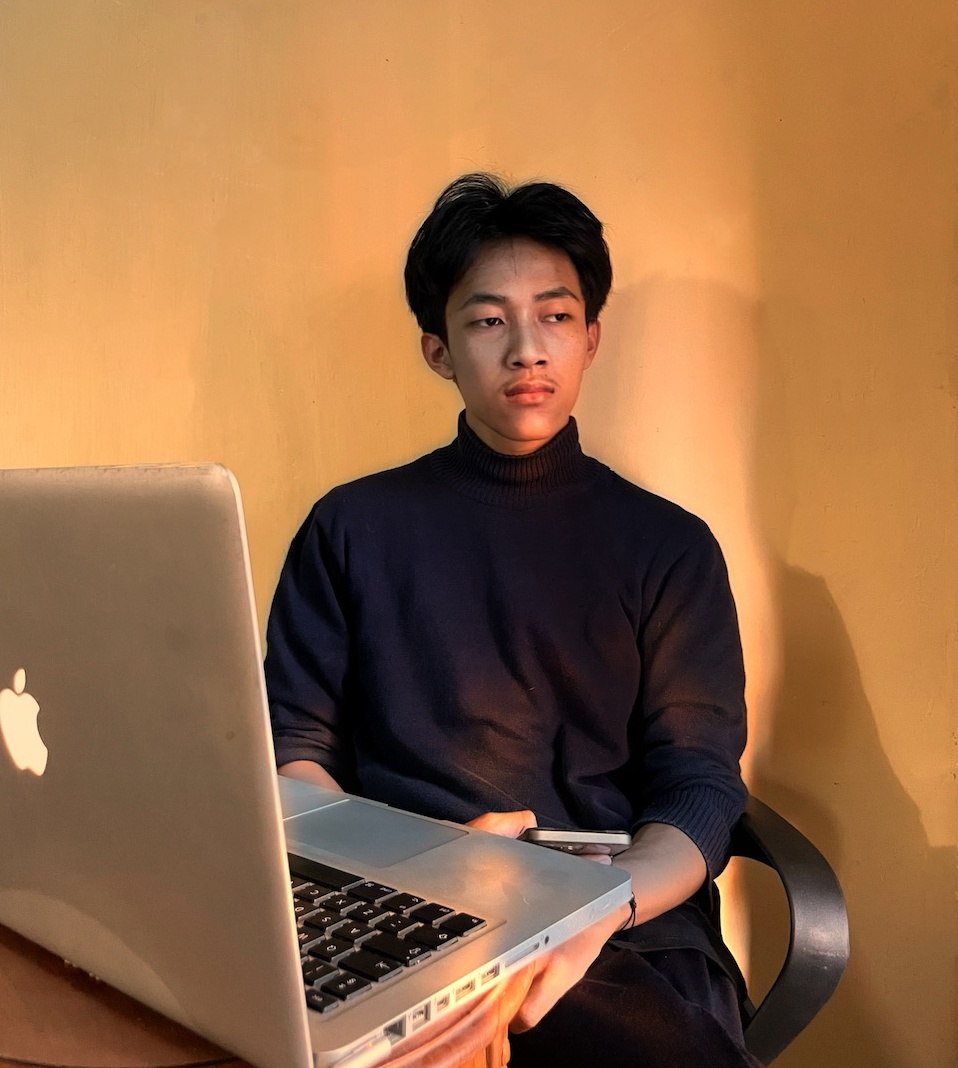
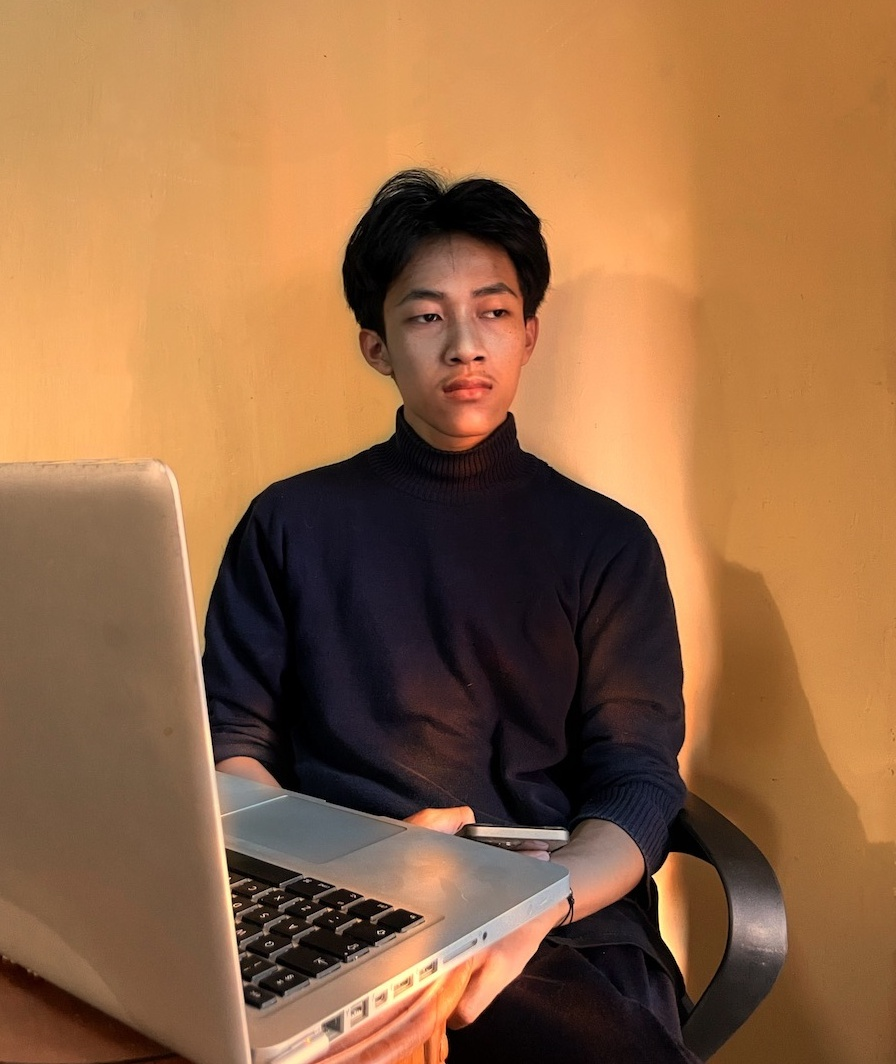
fixxing propic

diff --git a/index.html b/index.html
@@ -106,7 +106,7 @@
         <div class="col-lg-4 bg position-fixed d-none d-lg-block"></div>
         <div class="col-12 col-lg-8 offset-lg-4 home-details text-left text-sm-center text-lg-left">
             <div>
-                <img src="img/main.jpeg" class="img-fluid main-img-mobile d-none d-sm-block d-lg-none" alt="my picture">
+                <img src="img/test main.jpeg" class="img-fluid main-img-mobile d-none d-sm-block d-lg-none" alt="my picture">
                 <h1 class="text-uppercase poppins-font">I'm Rianzi Hasan.<span>BLOCKCHAIN DEV</span></h1>
                 <p class="open-sans-font">I'm a Asian Crypto Enthusiast & full stack developer focused on create web3 & blockchain experiences, I am passionate about building dApps software and Decentralized Finance.</p>
                 <a class="button" href="about.html">

diff --git a/about.html b/about.html
@@ -115,7 +115,7 @@
                         <h3 class="text-uppercase custom-title mb-0 ft-wt-600">personal information</h3>
                     </div>
                     <div class="col-12 d-block d-sm-none">
-                        <img src="img/main.jpeg" class="img-fluid main-img-mobile" alt="my picture">
+                        <img src="img/test main.jpeg" class="img-fluid main-img-mobile" alt="my picture">
                     </div>
                     <div class="col-6">
                         <ul class="about-list list-unstyled open-sans-font">

diff --git a/css/style.css b/css/style.css
@@ -543,7 +543,7 @@ body.light hr.separator {
 }
 
 .home .bg {
-  background-image: url(../img/main.jpeg);
+  background-image: url(../img/test\ main.jpeg);
   background-size: cover;
   background-repeat: no-repeat;
   background-position: top;
@@ -1759,7 +1759,7 @@ body.light .header ul.icon-menu li.icon-box:hover,
 
   .main-img-mobile {
     width: 230px;
-    height: 230px;
+    height: 200px;
   }
 
   .home .home-details h1 {
